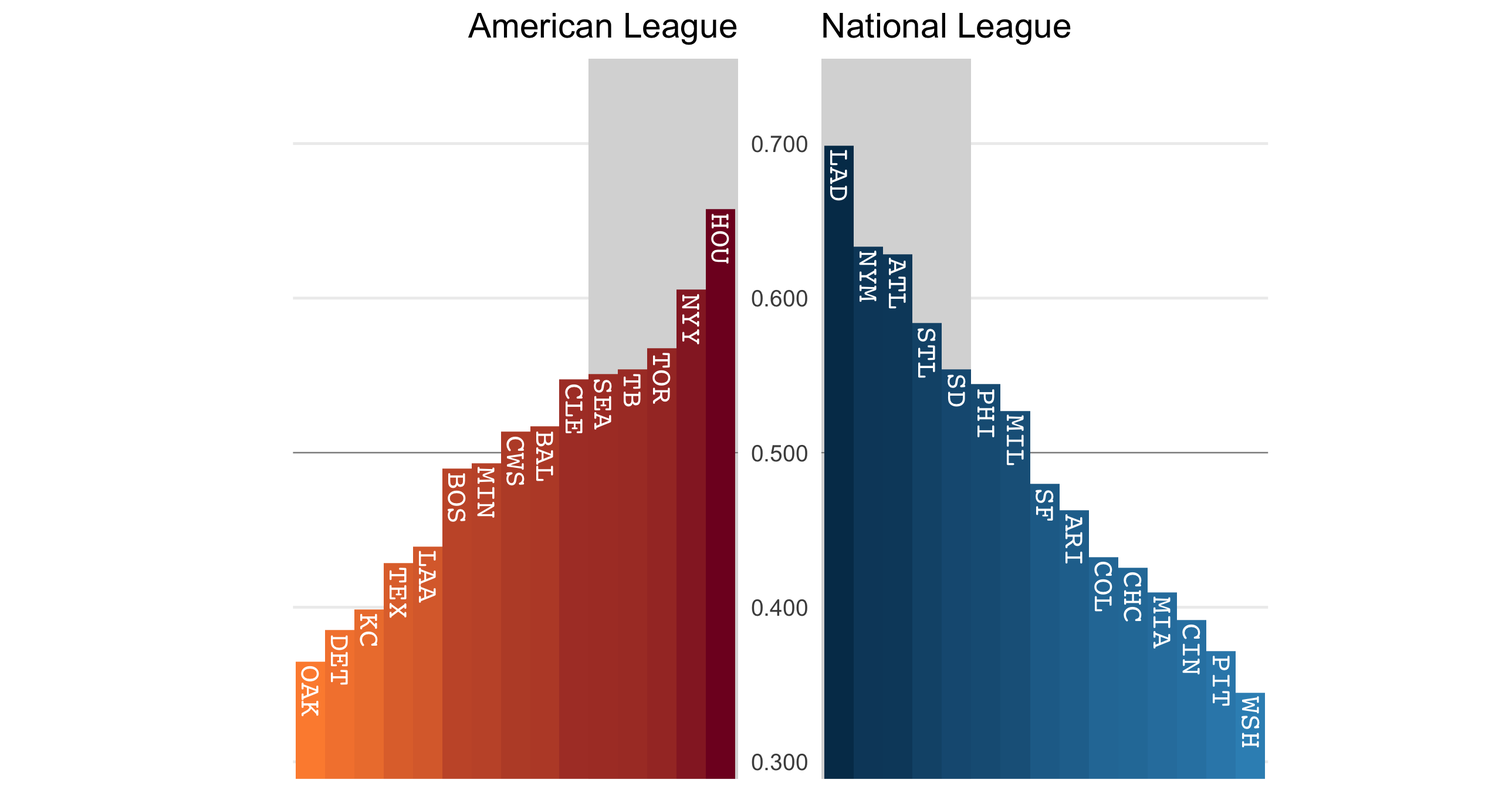
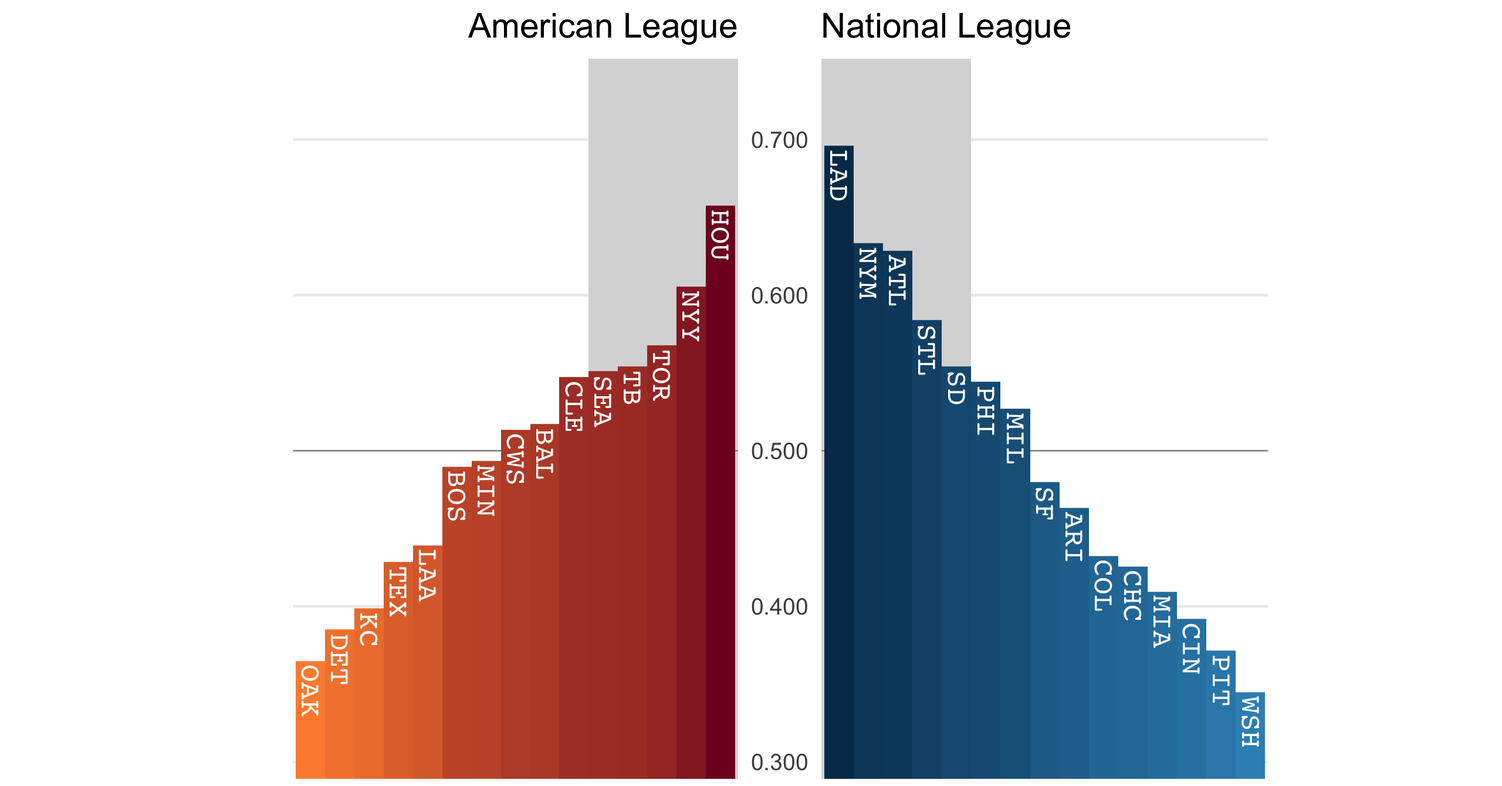
Latest data: Wed Sep 21 06:50:30 UTC 2022

diff --git a/charts/baseball.md b/charts/baseball.md
@@ -212,12 +212,12 @@ permalink: /charts/baseball/
       <td colspan="7" style="padding: 8px; color: #333333; background-color: #FFFFFF; font-size: 80%; font-weight: bolder; text-transform: uppercase; border-top-style: none; border-top-width: 2px; border-top-color: #D3D3D3; border-bottom-style: none; border-bottom-width: 2px; border-bottom-color: #D3D3D3; border-left-style: none; border-left-width: 1px; border-left-color: #D3D3D3; border-right-style: none; border-right-width: 1px; border-right-color: #D3D3D3; vertical-align: middle;">NL West</td>
     </tr>
     <tr><td style="padding-top: 3px; padding-bottom: 3px; padding-left: 5px; padding-right: 5px; margin: 10px; border-top-style: none; border-top-width: 1px; border-top-color: #D3D3D3; border-left-style: none; border-left-width: 1px; border-left-color: #D3D3D3; border-right-style: none; border-right-width: 1px; border-right-color: #D3D3D3; vertical-align: middle; overflow-x: hidden; background-color: rgba(128, 128, 128, 0.05); text-align: left;">LAD</td>
-<td style="padding-top: 3px; padding-bottom: 3px; padding-left: 5px; padding-right: 5px; margin: 10px; border-top-style: none; border-top-width: 1px; border-top-color: #D3D3D3; border-left-style: none; border-left-width: 1px; border-left-color: #D3D3D3; border-right-style: none; border-right-width: 1px; border-right-color: #D3D3D3; vertical-align: middle; overflow-x: hidden; background-color: rgba(128, 128, 128, 0.05); text-align: right; font-variant-numeric: tabular-nums;">102</td>
-<td style="padding-top: 3px; padding-bottom: 3px; padding-left: 5px; padding-right: 5px; margin: 10px; border-top-style: none; border-top-width: 1px; border-top-color: #D3D3D3; border-left-style: none; border-left-width: 1px; border-left-color: #D3D3D3; border-right-style: none; border-right-width: 1px; border-right-color: #D3D3D3; vertical-align: middle; overflow-x: hidden; background-color: rgba(128, 128, 128, 0.05); text-align: right; font-variant-numeric: tabular-nums;">44</td>
+<td style="padding-top: 3px; padding-bottom: 3px; padding-left: 5px; padding-right: 5px; margin: 10px; border-top-style: none; border-top-width: 1px; border-top-color: #D3D3D3; border-left-style: none; border-left-width: 1px; border-left-color: #D3D3D3; border-right-style: none; border-right-width: 1px; border-right-color: #D3D3D3; vertical-align: middle; overflow-x: hidden; background-color: rgba(128, 128, 128, 0.05); text-align: right; font-variant-numeric: tabular-nums;">103</td>
+<td style="padding-top: 3px; padding-bottom: 3px; padding-left: 5px; padding-right: 5px; margin: 10px; border-top-style: none; border-top-width: 1px; border-top-color: #D3D3D3; border-left-style: none; border-left-width: 1px; border-left-color: #D3D3D3; border-right-style: none; border-right-width: 1px; border-right-color: #D3D3D3; vertical-align: middle; overflow-x: hidden; background-color: rgba(128, 128, 128, 0.05); text-align: right; font-variant-numeric: tabular-nums;">45</td>
 <td style="padding-top: 3px; padding-bottom: 3px; padding-left: 5px; padding-right: 5px; margin: 10px; border-top-style: none; border-top-width: 1px; border-top-color: #D3D3D3; border-left-style: none; border-left-width: 1px; border-left-color: #D3D3D3; border-right-style: none; border-right-width: 1px; border-right-color: #D3D3D3; vertical-align: middle; overflow-x: hidden; background-color: rgba(128, 128, 128, 0.05); text-align: right; font-variant-numeric: tabular-nums;">+58</td>
-<td style="padding-top: 3px; padding-bottom: 3px; padding-left: 5px; padding-right: 5px; margin: 10px; border-top-style: none; border-top-width: 1px; border-top-color: #D3D3D3; border-left-style: none; border-left-width: 1px; border-left-color: #D3D3D3; border-right-style: none; border-right-width: 1px; border-right-color: #D3D3D3; vertical-align: middle; overflow-x: hidden; background-color: rgba(128, 128, 128, 0.05); text-align: right; font-variant-numeric: tabular-nums;">.699</td>
-<td style="padding-top: 3px; padding-bottom: 3px; padding-left: 5px; padding-right: 5px; margin: 10px; border-top-style: none; border-top-width: 1px; border-top-color: #D3D3D3; border-left-style: none; border-left-width: 1px; border-left-color: #D3D3D3; border-right-style: none; border-right-width: 1px; border-right-color: #D3D3D3; vertical-align: middle; overflow-x: hidden; background-color: rgba(128, 128, 128, 0.05); text-align: right; font-variant-numeric: tabular-nums;">15</td>
-<td style="padding-top: 3px; padding-bottom: 3px; padding-left: 5px; padding-right: 5px; margin: 10px; border-top-style: none; border-top-width: 1px; border-top-color: #D3D3D3; border-left-style: none; border-left-width: 1px; border-left-color: #D3D3D3; border-right-style: none; border-right-width: 1px; border-right-color: #D3D3D3; vertical-align: middle; overflow-x: hidden; background-color: rgba(128, 128, 128, 0.05); text-align: right; font-variant-numeric: tabular-nums;">▄▀▀▀▀▄▀▀▀▀</td></tr>
+<td style="padding-top: 3px; padding-bottom: 3px; padding-left: 5px; padding-right: 5px; margin: 10px; border-top-style: none; border-top-width: 1px; border-top-color: #D3D3D3; border-left-style: none; border-left-width: 1px; border-left-color: #D3D3D3; border-right-style: none; border-right-width: 1px; border-right-color: #D3D3D3; vertical-align: middle; overflow-x: hidden; background-color: rgba(128, 128, 128, 0.05); text-align: right; font-variant-numeric: tabular-nums;">.696</td>
+<td style="padding-top: 3px; padding-bottom: 3px; padding-left: 5px; padding-right: 5px; margin: 10px; border-top-style: none; border-top-width: 1px; border-top-color: #D3D3D3; border-left-style: none; border-left-width: 1px; border-left-color: #D3D3D3; border-right-style: none; border-right-width: 1px; border-right-color: #D3D3D3; vertical-align: middle; overflow-x: hidden; background-color: rgba(128, 128, 128, 0.05); text-align: right; font-variant-numeric: tabular-nums;">14</td>
+<td style="padding-top: 3px; padding-bottom: 3px; padding-left: 5px; padding-right: 5px; margin: 10px; border-top-style: none; border-top-width: 1px; border-top-color: #D3D3D3; border-left-style: none; border-left-width: 1px; border-left-color: #D3D3D3; border-right-style: none; border-right-width: 1px; border-right-color: #D3D3D3; vertical-align: middle; overflow-x: hidden; background-color: rgba(128, 128, 128, 0.05); text-align: right; font-variant-numeric: tabular-nums;">▀▀▀▄▀▀▀▀▄▀</td></tr>
     <tr><td style="padding-top: 3px; padding-bottom: 3px; padding-left: 5px; padding-right: 5px; margin: 10px; border-top-style: none; border-top-width: 1px; border-top-color: #D3D3D3; border-left-style: none; border-left-width: 1px; border-left-color: #D3D3D3; border-right-style: none; border-right-width: 1px; border-right-color: #D3D3D3; vertical-align: middle; overflow-x: hidden; text-align: left;">SD </td>
 <td style="padding-top: 3px; padding-bottom: 3px; padding-left: 5px; padding-right: 5px; margin: 10px; border-top-style: none; border-top-width: 1px; border-top-color: #D3D3D3; border-left-style: none; border-left-width: 1px; border-left-color: #D3D3D3; border-right-style: none; border-right-width: 1px; border-right-color: #D3D3D3; vertical-align: middle; overflow-x: hidden; text-align: right; font-variant-numeric: tabular-nums;">82</td>
 <td style="padding-top: 3px; padding-bottom: 3px; padding-left: 5px; padding-right: 5px; margin: 10px; border-top-style: none; border-top-width: 1px; border-top-color: #D3D3D3; border-left-style: none; border-left-width: 1px; border-left-color: #D3D3D3; border-right-style: none; border-right-width: 1px; border-right-color: #D3D3D3; vertical-align: middle; overflow-x: hidden; text-align: right; font-variant-numeric: tabular-nums;">66</td>
@@ -233,12 +233,12 @@ permalink: /charts/baseball/
 <td style="padding-top: 3px; padding-bottom: 3px; padding-left: 5px; padding-right: 5px; margin: 10px; border-top-style: none; border-top-width: 1px; border-top-color: #D3D3D3; border-left-style: none; border-left-width: 1px; border-left-color: #D3D3D3; border-right-style: none; border-right-width: 1px; border-right-color: #D3D3D3; vertical-align: middle; overflow-x: hidden; background-color: rgba(128, 128, 128, 0.05); text-align: right; font-variant-numeric: tabular-nums;">14</td>
 <td style="padding-top: 3px; padding-bottom: 3px; padding-left: 5px; padding-right: 5px; margin: 10px; border-top-style: none; border-top-width: 1px; border-top-color: #D3D3D3; border-left-style: none; border-left-width: 1px; border-left-color: #D3D3D3; border-right-style: none; border-right-width: 1px; border-right-color: #D3D3D3; vertical-align: middle; overflow-x: hidden; background-color: rgba(128, 128, 128, 0.05); text-align: right; font-variant-numeric: tabular-nums;">▀▀▀▄▀▄▄▄▀▀</td></tr>
     <tr><td style="padding-top: 3px; padding-bottom: 3px; padding-left: 5px; padding-right: 5px; margin: 10px; border-top-style: none; border-top-width: 1px; border-top-color: #D3D3D3; border-left-style: none; border-left-width: 1px; border-left-color: #D3D3D3; border-right-style: none; border-right-width: 1px; border-right-color: #D3D3D3; vertical-align: middle; overflow-x: hidden; text-align: left;">ARI</td>
-<td style="padding-top: 3px; padding-bottom: 3px; padding-left: 5px; padding-right: 5px; margin: 10px; border-top-style: none; border-top-width: 1px; border-top-color: #D3D3D3; border-left-style: none; border-left-width: 1px; border-left-color: #D3D3D3; border-right-style: none; border-right-width: 1px; border-right-color: #D3D3D3; vertical-align: middle; overflow-x: hidden; text-align: right; font-variant-numeric: tabular-nums;">68</td>
-<td style="padding-top: 3px; padding-bottom: 3px; padding-left: 5px; padding-right: 5px; margin: 10px; border-top-style: none; border-top-width: 1px; border-top-color: #D3D3D3; border-left-style: none; border-left-width: 1px; border-left-color: #D3D3D3; border-right-style: none; border-right-width: 1px; border-right-color: #D3D3D3; vertical-align: middle; overflow-x: hidden; text-align: right; font-variant-numeric: tabular-nums;">79</td>
+<td style="padding-top: 3px; padding-bottom: 3px; padding-left: 5px; padding-right: 5px; margin: 10px; border-top-style: none; border-top-width: 1px; border-top-color: #D3D3D3; border-left-style: none; border-left-width: 1px; border-left-color: #D3D3D3; border-right-style: none; border-right-width: 1px; border-right-color: #D3D3D3; vertical-align: middle; overflow-x: hidden; text-align: right; font-variant-numeric: tabular-nums;">69</td>
+<td style="padding-top: 3px; padding-bottom: 3px; padding-left: 5px; padding-right: 5px; margin: 10px; border-top-style: none; border-top-width: 1px; border-top-color: #D3D3D3; border-left-style: none; border-left-width: 1px; border-left-color: #D3D3D3; border-right-style: none; border-right-width: 1px; border-right-color: #D3D3D3; vertical-align: middle; overflow-x: hidden; text-align: right; font-variant-numeric: tabular-nums;">80</td>
 <td style="padding-top: 3px; padding-bottom: 3px; padding-left: 5px; padding-right: 5px; margin: 10px; border-top-style: none; border-top-width: 1px; border-top-color: #D3D3D3; border-left-style: none; border-left-width: 1px; border-left-color: #D3D3D3; border-right-style: none; border-right-width: 1px; border-right-color: #D3D3D3; vertical-align: middle; overflow-x: hidden; text-align: right; font-variant-numeric: tabular-nums;">&minus;11</td>
 <td style="padding-top: 3px; padding-bottom: 3px; padding-left: 5px; padding-right: 5px; margin: 10px; border-top-style: none; border-top-width: 1px; border-top-color: #D3D3D3; border-left-style: none; border-left-width: 1px; border-left-color: #D3D3D3; border-right-style: none; border-right-width: 1px; border-right-color: #D3D3D3; vertical-align: middle; overflow-x: hidden; text-align: right; font-variant-numeric: tabular-nums;">.463</td>
-<td style="padding-top: 3px; padding-bottom: 3px; padding-left: 5px; padding-right: 5px; margin: 10px; border-top-style: none; border-top-width: 1px; border-top-color: #D3D3D3; border-left-style: none; border-left-width: 1px; border-left-color: #D3D3D3; border-right-style: none; border-right-width: 1px; border-right-color: #D3D3D3; vertical-align: middle; overflow-x: hidden; text-align: right; font-variant-numeric: tabular-nums;">14</td>
-<td style="padding-top: 3px; padding-bottom: 3px; padding-left: 5px; padding-right: 5px; margin: 10px; border-top-style: none; border-top-width: 1px; border-top-color: #D3D3D3; border-left-style: none; border-left-width: 1px; border-left-color: #D3D3D3; border-right-style: none; border-right-width: 1px; border-right-color: #D3D3D3; vertical-align: middle; overflow-x: hidden; text-align: right; font-variant-numeric: tabular-nums;">▄▀▄▄▀▀▄▄▄▄</td></tr>
+<td style="padding-top: 3px; padding-bottom: 3px; padding-left: 5px; padding-right: 5px; margin: 10px; border-top-style: none; border-top-width: 1px; border-top-color: #D3D3D3; border-left-style: none; border-left-width: 1px; border-left-color: #D3D3D3; border-right-style: none; border-right-width: 1px; border-right-color: #D3D3D3; vertical-align: middle; overflow-x: hidden; text-align: right; font-variant-numeric: tabular-nums;">13</td>
+<td style="padding-top: 3px; padding-bottom: 3px; padding-left: 5px; padding-right: 5px; margin: 10px; border-top-style: none; border-top-width: 1px; border-top-color: #D3D3D3; border-left-style: none; border-left-width: 1px; border-left-color: #D3D3D3; border-right-style: none; border-right-width: 1px; border-right-color: #D3D3D3; vertical-align: middle; overflow-x: hidden; text-align: right; font-variant-numeric: tabular-nums;">▄▄▀▀▄▄▄▄▀▄</td></tr>
     <tr><td style="padding-top: 3px; padding-bottom: 3px; padding-left: 5px; padding-right: 5px; margin: 10px; border-top-style: none; border-top-width: 1px; border-top-color: #D3D3D3; border-left-style: none; border-left-width: 1px; border-left-color: #D3D3D3; border-right-style: none; border-right-width: 1px; border-right-color: #D3D3D3; vertical-align: middle; overflow-x: hidden; background-color: rgba(128, 128, 128, 0.05); text-align: left;">COL</td>
 <td style="padding-top: 3px; padding-bottom: 3px; padding-left: 5px; padding-right: 5px; margin: 10px; border-top-style: none; border-top-width: 1px; border-top-color: #D3D3D3; border-left-style: none; border-left-width: 1px; border-left-color: #D3D3D3; border-right-style: none; border-right-width: 1px; border-right-color: #D3D3D3; vertical-align: middle; overflow-x: hidden; background-color: rgba(128, 128, 128, 0.05); text-align: right; font-variant-numeric: tabular-nums;">64</td>
 <td style="padding-top: 3px; padding-bottom: 3px; padding-left: 5px; padding-right: 5px; margin: 10px; border-top-style: none; border-top-width: 1px; border-top-color: #D3D3D3; border-left-style: none; border-left-width: 1px; border-left-color: #D3D3D3; border-right-style: none; border-right-width: 1px; border-right-color: #D3D3D3; vertical-align: middle; overflow-x: hidden; background-color: rgba(128, 128, 128, 0.05); text-align: right; font-variant-numeric: tabular-nums;">84</td>
@@ -403,12 +403,12 @@ permalink: /charts/baseball/
       <td colspan="7" style="padding: 8px; color: #333333; background-color: #FFFFFF; font-size: 80%; font-weight: bolder; text-transform: uppercase; border-top-style: none; border-top-width: 2px; border-top-color: #D3D3D3; border-bottom-style: none; border-bottom-width: 2px; border-bottom-color: #D3D3D3; border-left-style: none; border-left-width: 1px; border-left-color: #D3D3D3; border-right-style: none; border-right-width: 1px; border-right-color: #D3D3D3; vertical-align: middle;">NL</td>
     </tr>
     <tr><td style="padding-top: 3px; padding-bottom: 3px; padding-left: 5px; padding-right: 5px; margin: 10px; border-top-style: none; border-top-width: 1px; border-top-color: #D3D3D3; border-left-style: none; border-left-width: 1px; border-left-color: #D3D3D3; border-right-style: none; border-right-width: 1px; border-right-color: #D3D3D3; vertical-align: middle; overflow-x: hidden; background-color: rgba(128, 128, 128, 0.05); text-align: left;">LAD</td>
-<td style="padding-top: 3px; padding-bottom: 3px; padding-left: 5px; padding-right: 5px; margin: 10px; border-top-style: none; border-top-width: 1px; border-top-color: #D3D3D3; border-left-style: none; border-left-width: 1px; border-left-color: #D3D3D3; border-right-style: none; border-right-width: 1px; border-right-color: #D3D3D3; vertical-align: middle; overflow-x: hidden; background-color: rgba(128, 128, 128, 0.05); text-align: right; font-variant-numeric: tabular-nums;">102</td>
-<td style="padding-top: 3px; padding-bottom: 3px; padding-left: 5px; padding-right: 5px; margin: 10px; border-top-style: none; border-top-width: 1px; border-top-color: #D3D3D3; border-left-style: none; border-left-width: 1px; border-left-color: #D3D3D3; border-right-style: none; border-right-width: 1px; border-right-color: #D3D3D3; vertical-align: middle; overflow-x: hidden; background-color: rgba(128, 128, 128, 0.05); text-align: right; font-variant-numeric: tabular-nums;">44</td>
+<td style="padding-top: 3px; padding-bottom: 3px; padding-left: 5px; padding-right: 5px; margin: 10px; border-top-style: none; border-top-width: 1px; border-top-color: #D3D3D3; border-left-style: none; border-left-width: 1px; border-left-color: #D3D3D3; border-right-style: none; border-right-width: 1px; border-right-color: #D3D3D3; vertical-align: middle; overflow-x: hidden; background-color: rgba(128, 128, 128, 0.05); text-align: right; font-variant-numeric: tabular-nums;">103</td>
+<td style="padding-top: 3px; padding-bottom: 3px; padding-left: 5px; padding-right: 5px; margin: 10px; border-top-style: none; border-top-width: 1px; border-top-color: #D3D3D3; border-left-style: none; border-left-width: 1px; border-left-color: #D3D3D3; border-right-style: none; border-right-width: 1px; border-right-color: #D3D3D3; vertical-align: middle; overflow-x: hidden; background-color: rgba(128, 128, 128, 0.05); text-align: right; font-variant-numeric: tabular-nums;">45</td>
 <td style="padding-top: 3px; padding-bottom: 3px; padding-left: 5px; padding-right: 5px; margin: 10px; border-top-style: none; border-top-width: 1px; border-top-color: #D3D3D3; border-left-style: none; border-left-width: 1px; border-left-color: #D3D3D3; border-right-style: none; border-right-width: 1px; border-right-color: #D3D3D3; vertical-align: middle; overflow-x: hidden; background-color: rgba(128, 128, 128, 0.05); text-align: right; font-variant-numeric: tabular-nums;">+58</td>
-<td style="padding-top: 3px; padding-bottom: 3px; padding-left: 5px; padding-right: 5px; margin: 10px; border-top-style: none; border-top-width: 1px; border-top-color: #D3D3D3; border-left-style: none; border-left-width: 1px; border-left-color: #D3D3D3; border-right-style: none; border-right-width: 1px; border-right-color: #D3D3D3; vertical-align: middle; overflow-x: hidden; background-color: rgba(128, 128, 128, 0.05); text-align: right; font-variant-numeric: tabular-nums;">.699</td>
-<td style="padding-top: 3px; padding-bottom: 3px; padding-left: 5px; padding-right: 5px; margin: 10px; border-top-style: none; border-top-width: 1px; border-top-color: #D3D3D3; border-left-style: none; border-left-width: 1px; border-left-color: #D3D3D3; border-right-style: none; border-right-width: 1px; border-right-color: #D3D3D3; vertical-align: middle; overflow-x: hidden; background-color: rgba(128, 128, 128, 0.05); text-align: right; font-variant-numeric: tabular-nums;">15</td>
-<td style="padding-top: 3px; padding-bottom: 3px; padding-left: 5px; padding-right: 5px; margin: 10px; border-top-style: none; border-top-width: 1px; border-top-color: #D3D3D3; border-left-style: none; border-left-width: 1px; border-left-color: #D3D3D3; border-right-style: none; border-right-width: 1px; border-right-color: #D3D3D3; vertical-align: middle; overflow-x: hidden; background-color: rgba(128, 128, 128, 0.05); text-align: right; font-variant-numeric: tabular-nums;">▄▀▀▀▀▄▀▀▀▀</td></tr>
+<td style="padding-top: 3px; padding-bottom: 3px; padding-left: 5px; padding-right: 5px; margin: 10px; border-top-style: none; border-top-width: 1px; border-top-color: #D3D3D3; border-left-style: none; border-left-width: 1px; border-left-color: #D3D3D3; border-right-style: none; border-right-width: 1px; border-right-color: #D3D3D3; vertical-align: middle; overflow-x: hidden; background-color: rgba(128, 128, 128, 0.05); text-align: right; font-variant-numeric: tabular-nums;">.696</td>
+<td style="padding-top: 3px; padding-bottom: 3px; padding-left: 5px; padding-right: 5px; margin: 10px; border-top-style: none; border-top-width: 1px; border-top-color: #D3D3D3; border-left-style: none; border-left-width: 1px; border-left-color: #D3D3D3; border-right-style: none; border-right-width: 1px; border-right-color: #D3D3D3; vertical-align: middle; overflow-x: hidden; background-color: rgba(128, 128, 128, 0.05); text-align: right; font-variant-numeric: tabular-nums;">14</td>
+<td style="padding-top: 3px; padding-bottom: 3px; padding-left: 5px; padding-right: 5px; margin: 10px; border-top-style: none; border-top-width: 1px; border-top-color: #D3D3D3; border-left-style: none; border-left-width: 1px; border-left-color: #D3D3D3; border-right-style: none; border-right-width: 1px; border-right-color: #D3D3D3; vertical-align: middle; overflow-x: hidden; background-color: rgba(128, 128, 128, 0.05); text-align: right; font-variant-numeric: tabular-nums;">▀▀▀▄▀▀▀▀▄▀</td></tr>
     <tr><td style="padding-top: 3px; padding-bottom: 3px; padding-left: 5px; padding-right: 5px; margin: 10px; border-top-style: none; border-top-width: 1px; border-top-color: #D3D3D3; border-left-style: none; border-left-width: 1px; border-left-color: #D3D3D3; border-right-style: none; border-right-width: 1px; border-right-color: #D3D3D3; vertical-align: middle; overflow-x: hidden; text-align: left;">NYM</td>
 <td style="padding-top: 3px; padding-bottom: 3px; padding-left: 5px; padding-right: 5px; margin: 10px; border-top-style: none; border-top-width: 1px; border-top-color: #D3D3D3; border-left-style: none; border-left-width: 1px; border-left-color: #D3D3D3; border-right-style: none; border-right-width: 1px; border-right-color: #D3D3D3; vertical-align: middle; overflow-x: hidden; text-align: right; font-variant-numeric: tabular-nums;">95</td>
 <td style="padding-top: 3px; padding-bottom: 3px; padding-left: 5px; padding-right: 5px; margin: 10px; border-top-style: none; border-top-width: 1px; border-top-color: #D3D3D3; border-left-style: none; border-left-width: 1px; border-left-color: #D3D3D3; border-right-style: none; border-right-width: 1px; border-right-color: #D3D3D3; vertical-align: middle; overflow-x: hidden; text-align: right; font-variant-numeric: tabular-nums;">55</td>
@@ -459,12 +459,12 @@ permalink: /charts/baseball/
 <td style="padding-top: 3px; padding-bottom: 3px; padding-left: 5px; padding-right: 5px; margin: 10px; border-top-style: none; border-top-width: 1px; border-top-color: #D3D3D3; border-left-style: none; border-left-width: 1px; border-left-color: #D3D3D3; border-right-style: none; border-right-width: 1px; border-right-color: #D3D3D3; vertical-align: middle; overflow-x: hidden; text-align: right; font-variant-numeric: tabular-nums;">14</td>
 <td style="padding-top: 3px; padding-bottom: 3px; padding-left: 5px; padding-right: 5px; margin: 10px; border-top-style: none; border-top-width: 1px; border-top-color: #D3D3D3; border-left-style: none; border-left-width: 1px; border-left-color: #D3D3D3; border-right-style: none; border-right-width: 1px; border-right-color: #D3D3D3; vertical-align: middle; overflow-x: hidden; text-align: right; font-variant-numeric: tabular-nums;">▀▀▀▄▀▄▄▄▀▀</td></tr>
     <tr><td style="padding-top: 3px; padding-bottom: 3px; padding-left: 5px; padding-right: 5px; margin: 10px; border-top-style: none; border-top-width: 1px; border-top-color: #D3D3D3; border-left-style: none; border-left-width: 1px; border-left-color: #D3D3D3; border-right-style: none; border-right-width: 1px; border-right-color: #D3D3D3; vertical-align: middle; overflow-x: hidden; background-color: rgba(128, 128, 128, 0.05); text-align: left;">ARI</td>
-<td style="padding-top: 3px; padding-bottom: 3px; padding-left: 5px; padding-right: 5px; margin: 10px; border-top-style: none; border-top-width: 1px; border-top-color: #D3D3D3; border-left-style: none; border-left-width: 1px; border-left-color: #D3D3D3; border-right-style: none; border-right-width: 1px; border-right-color: #D3D3D3; vertical-align: middle; overflow-x: hidden; background-color: rgba(128, 128, 128, 0.05); text-align: right; font-variant-numeric: tabular-nums;">68</td>
-<td style="padding-top: 3px; padding-bottom: 3px; padding-left: 5px; padding-right: 5px; margin: 10px; border-top-style: none; border-top-width: 1px; border-top-color: #D3D3D3; border-left-style: none; border-left-width: 1px; border-left-color: #D3D3D3; border-right-style: none; border-right-width: 1px; border-right-color: #D3D3D3; vertical-align: middle; overflow-x: hidden; background-color: rgba(128, 128, 128, 0.05); text-align: right; font-variant-numeric: tabular-nums;">79</td>
+<td style="padding-top: 3px; padding-bottom: 3px; padding-left: 5px; padding-right: 5px; margin: 10px; border-top-style: none; border-top-width: 1px; border-top-color: #D3D3D3; border-left-style: none; border-left-width: 1px; border-left-color: #D3D3D3; border-right-style: none; border-right-width: 1px; border-right-color: #D3D3D3; vertical-align: middle; overflow-x: hidden; background-color: rgba(128, 128, 128, 0.05); text-align: right; font-variant-numeric: tabular-nums;">69</td>
+<td style="padding-top: 3px; padding-bottom: 3px; padding-left: 5px; padding-right: 5px; margin: 10px; border-top-style: none; border-top-width: 1px; border-top-color: #D3D3D3; border-left-style: none; border-left-width: 1px; border-left-color: #D3D3D3; border-right-style: none; border-right-width: 1px; border-right-color: #D3D3D3; vertical-align: middle; overflow-x: hidden; background-color: rgba(128, 128, 128, 0.05); text-align: right; font-variant-numeric: tabular-nums;">80</td>
 <td style="padding-top: 3px; padding-bottom: 3px; padding-left: 5px; padding-right: 5px; margin: 10px; border-top-style: none; border-top-width: 1px; border-top-color: #D3D3D3; border-left-style: none; border-left-width: 1px; border-left-color: #D3D3D3; border-right-style: none; border-right-width: 1px; border-right-color: #D3D3D3; vertical-align: middle; overflow-x: hidden; background-color: rgba(128, 128, 128, 0.05); text-align: right; font-variant-numeric: tabular-nums;">&minus;11</td>
 <td style="padding-top: 3px; padding-bottom: 3px; padding-left: 5px; padding-right: 5px; margin: 10px; border-top-style: none; border-top-width: 1px; border-top-color: #D3D3D3; border-left-style: none; border-left-width: 1px; border-left-color: #D3D3D3; border-right-style: none; border-right-width: 1px; border-right-color: #D3D3D3; vertical-align: middle; overflow-x: hidden; background-color: rgba(128, 128, 128, 0.05); text-align: right; font-variant-numeric: tabular-nums;">.463</td>
-<td style="padding-top: 3px; padding-bottom: 3px; padding-left: 5px; padding-right: 5px; margin: 10px; border-top-style: none; border-top-width: 1px; border-top-color: #D3D3D3; border-left-style: none; border-left-width: 1px; border-left-color: #D3D3D3; border-right-style: none; border-right-width: 1px; border-right-color: #D3D3D3; vertical-align: middle; overflow-x: hidden; background-color: rgba(128, 128, 128, 0.05); text-align: right; font-variant-numeric: tabular-nums;">14</td>
-<td style="padding-top: 3px; padding-bottom: 3px; padding-left: 5px; padding-right: 5px; margin: 10px; border-top-style: none; border-top-width: 1px; border-top-color: #D3D3D3; border-left-style: none; border-left-width: 1px; border-left-color: #D3D3D3; border-right-style: none; border-right-width: 1px; border-right-color: #D3D3D3; vertical-align: middle; overflow-x: hidden; background-color: rgba(128, 128, 128, 0.05); text-align: right; font-variant-numeric: tabular-nums;">▄▀▄▄▀▀▄▄▄▄</td></tr>
+<td style="padding-top: 3px; padding-bottom: 3px; padding-left: 5px; padding-right: 5px; margin: 10px; border-top-style: none; border-top-width: 1px; border-top-color: #D3D3D3; border-left-style: none; border-left-width: 1px; border-left-color: #D3D3D3; border-right-style: none; border-right-width: 1px; border-right-color: #D3D3D3; vertical-align: middle; overflow-x: hidden; background-color: rgba(128, 128, 128, 0.05); text-align: right; font-variant-numeric: tabular-nums;">13</td>
+<td style="padding-top: 3px; padding-bottom: 3px; padding-left: 5px; padding-right: 5px; margin: 10px; border-top-style: none; border-top-width: 1px; border-top-color: #D3D3D3; border-left-style: none; border-left-width: 1px; border-left-color: #D3D3D3; border-right-style: none; border-right-width: 1px; border-right-color: #D3D3D3; vertical-align: middle; overflow-x: hidden; background-color: rgba(128, 128, 128, 0.05); text-align: right; font-variant-numeric: tabular-nums;">▄▄▀▀▄▄▄▄▀▄</td></tr>
     <tr><td style="padding-top: 3px; padding-bottom: 3px; padding-left: 5px; padding-right: 5px; margin: 10px; border-top-style: none; border-top-width: 1px; border-top-color: #D3D3D3; border-left-style: none; border-left-width: 1px; border-left-color: #D3D3D3; border-right-style: none; border-right-width: 1px; border-right-color: #D3D3D3; vertical-align: middle; overflow-x: hidden; text-align: left;">COL</td>
 <td style="padding-top: 3px; padding-bottom: 3px; padding-left: 5px; padding-right: 5px; margin: 10px; border-top-style: none; border-top-width: 1px; border-top-color: #D3D3D3; border-left-style: none; border-left-width: 1px; border-left-color: #D3D3D3; border-right-style: none; border-right-width: 1px; border-right-color: #D3D3D3; vertical-align: middle; overflow-x: hidden; text-align: right; font-variant-numeric: tabular-nums;">64</td>
 <td style="padding-top: 3px; padding-bottom: 3px; padding-left: 5px; padding-right: 5px; margin: 10px; border-top-style: none; border-top-width: 1px; border-top-color: #D3D3D3; border-left-style: none; border-left-width: 1px; border-left-color: #D3D3D3; border-right-style: none; border-right-width: 1px; border-right-color: #D3D3D3; vertical-align: middle; overflow-x: hidden; text-align: right; font-variant-numeric: tabular-nums;">84</td>
@@ -514,6 +514,6 @@ permalink: /charts/baseball/
 
 ![Wild Card]({{ site.baseurl }}/plots/mlb_team_rank.png)
 
-Source: [FiveThirtyEight](https://github.com/fivethirtyeight/data/tree/master/mlb-elo). [CC-BY-4.0 License](https://github.com/fivethirtyeight/data/blob/master/LICENSE). Latest data: 12:53 AM CT, September 21 
+Source: [FiveThirtyEight](https://github.com/fivethirtyeight/data/tree/master/mlb-elo). [CC-BY-4.0 License](https://github.com/fivethirtyeight/data/blob/master/LICENSE). Latest data: 01:50 AM CT, September 21 
 
 
